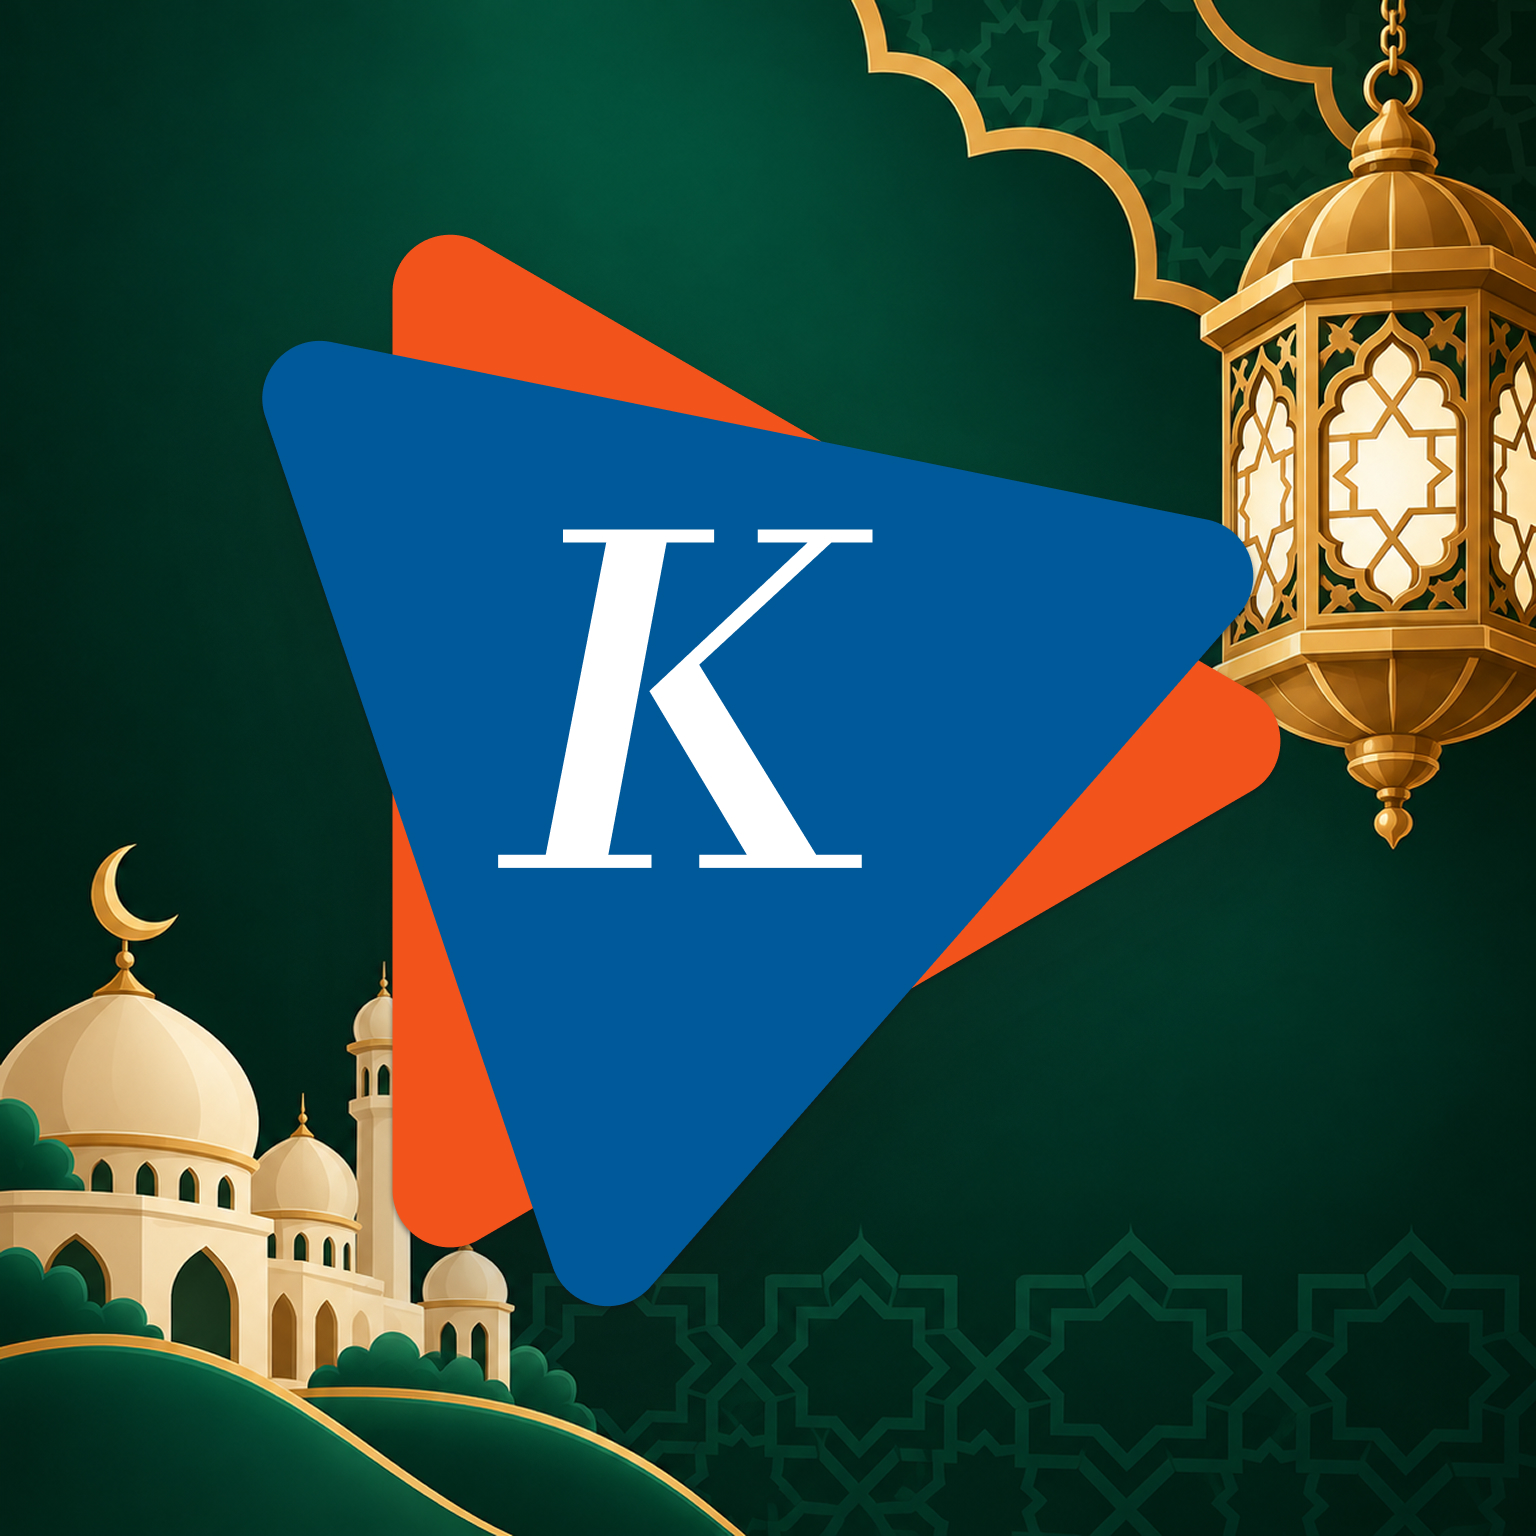
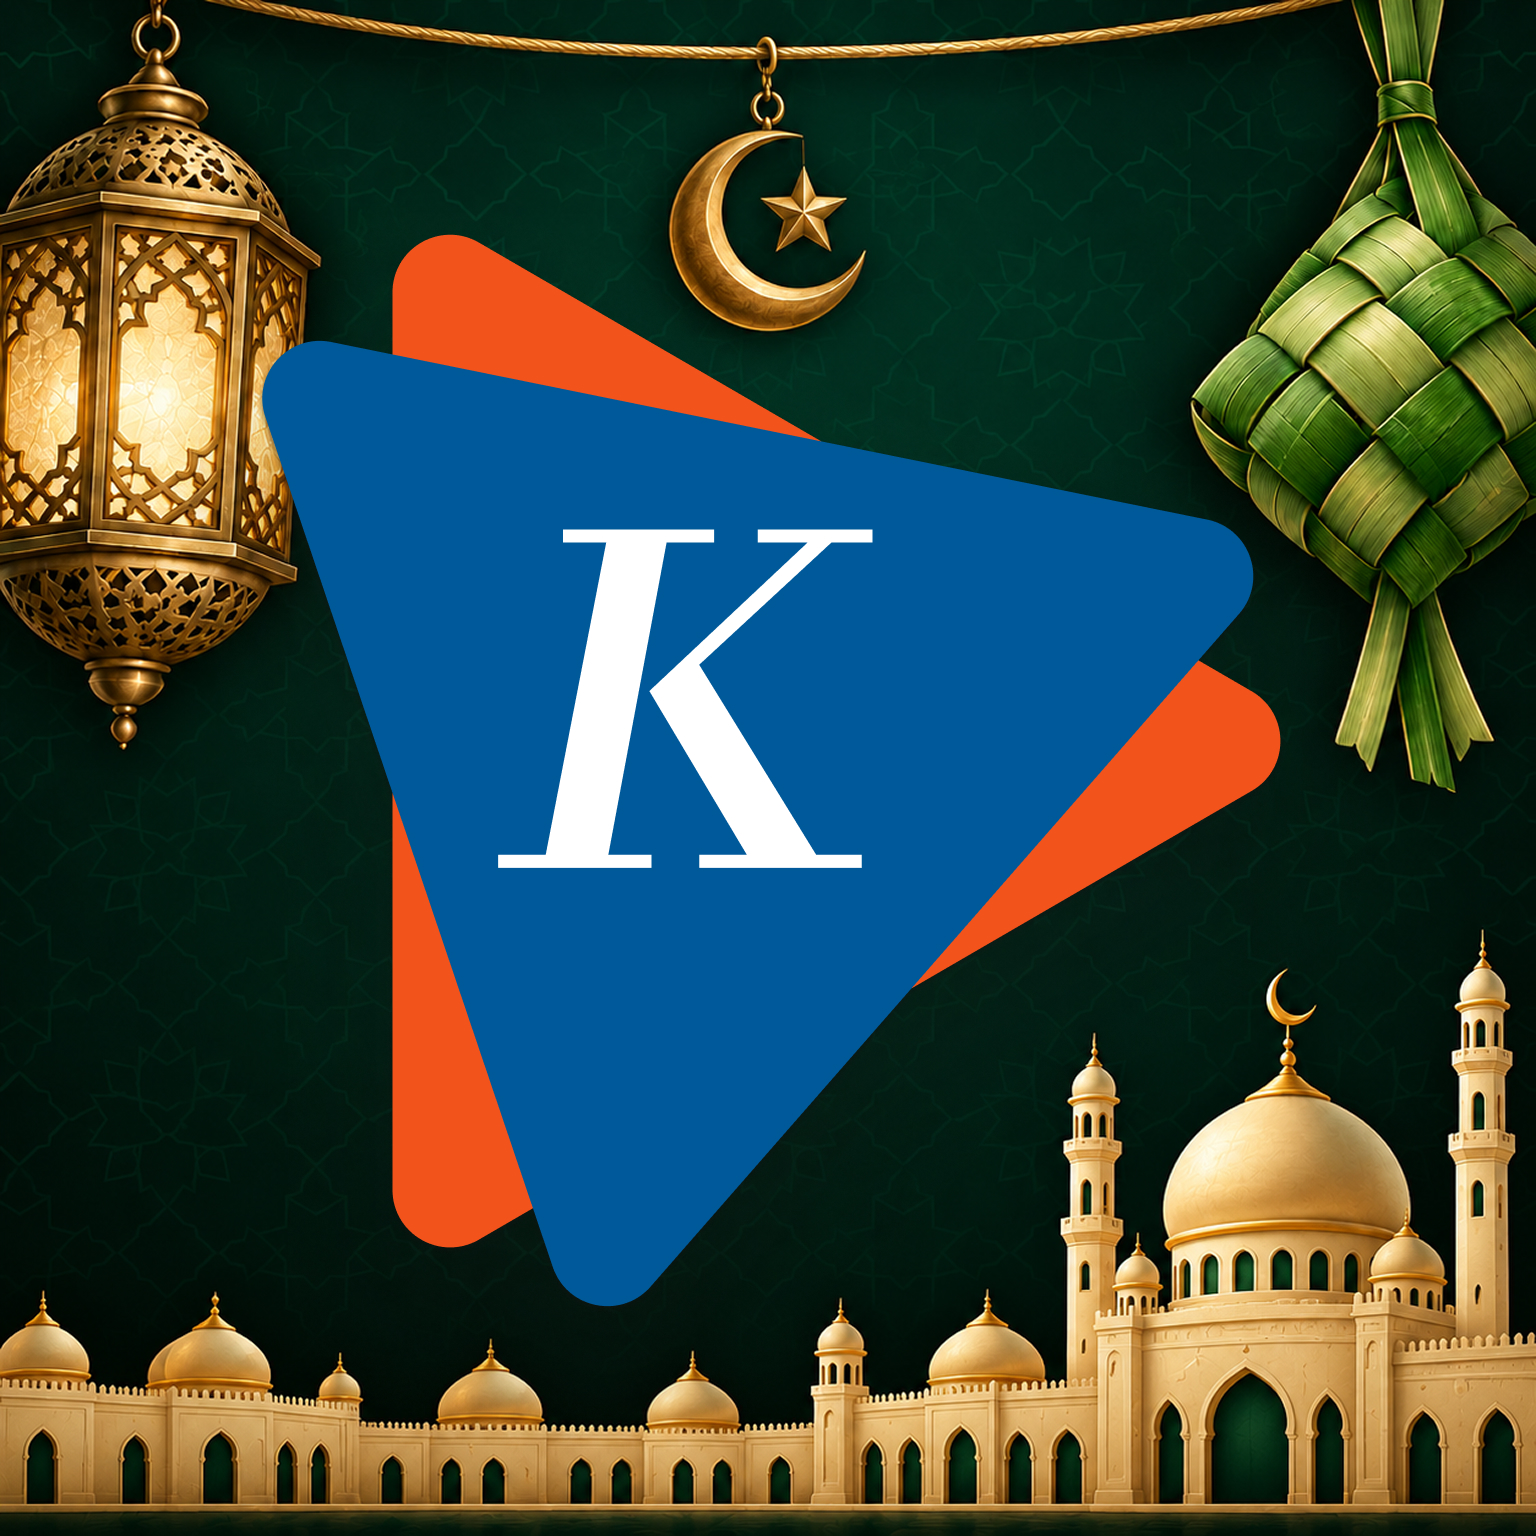
Update Tahun Baru Pancasila and Ramadhan thumbnails

diff --git a/android.html b/android.html
@@ -89,8 +89,8 @@
           "HUTRILight.jpg": [23, "HUT RI"]
         };
         const grid = document.querySelector(".grid");
-        // Only the combined Pahlawan asset and Pancasila remain visible from the dark collection.
-        const visibleDarkThumbnails = new Set(["PahlawanDark.jpg", "PancasilaDark.jpg"]);
+        // The active dark assets are the combined Pahlawan and updated Tahun Baru variants.
+        const visibleDarkThumbnails = new Set(["PahlawanDark.jpg", "TahunBaruDark.jpg"]);
         const hiddenThumbnails = new Set([
           "SumpahPemudaDark.jpg",
           "LebaranDark.jpg", "LebaranLight.png",
@@ -98,7 +98,7 @@
           "PendidikanNasionalDark.jpg", "PendidikanNasionalLight.jpg",
           "IdulAdhaLight.jpg",
           "HariAnakDark.jpg", "HariAnakLight.jpg",
-          "PancasilaLight.jpg"
+          "TahunBaruLight.jpg"
         ]);
         const thumbnailApps = [...grid.querySelectorAll(".app")].filter((app) => {
           const image = app.querySelector("img");

diff --git a/ios.html b/ios.html
@@ -89,8 +89,8 @@
           "HUTRILight.jpg": [23, "HUT RI"]
         };
         const grid = document.querySelector(".grid");
-        // Only the combined Pahlawan asset and Pancasila remain visible from the dark collection.
-        const visibleDarkThumbnails = new Set(["PahlawanDark.jpg", "PancasilaDark.jpg"]);
+        // The active dark assets are the combined Pahlawan and updated Tahun Baru variants.
+        const visibleDarkThumbnails = new Set(["PahlawanDark.jpg", "TahunBaruDark.jpg"]);
         const hiddenThumbnails = new Set([
           "SumpahPemudaDark.jpg",
           "LebaranDark.jpg", "LebaranLight.png",
@@ -98,7 +98,7 @@
           "PendidikanNasionalDark.jpg", "PendidikanNasionalLight.jpg",
           "IdulAdhaLight.jpg",
           "HariAnakDark.jpg", "HariAnakLight.jpg",
-          "PancasilaLight.jpg"
+          "TahunBaruLight.jpg"
         ]);
         const thumbnailApps = [...grid.querySelectorAll(".app")].filter((app) => {
           const image = app.querySelector("img");
